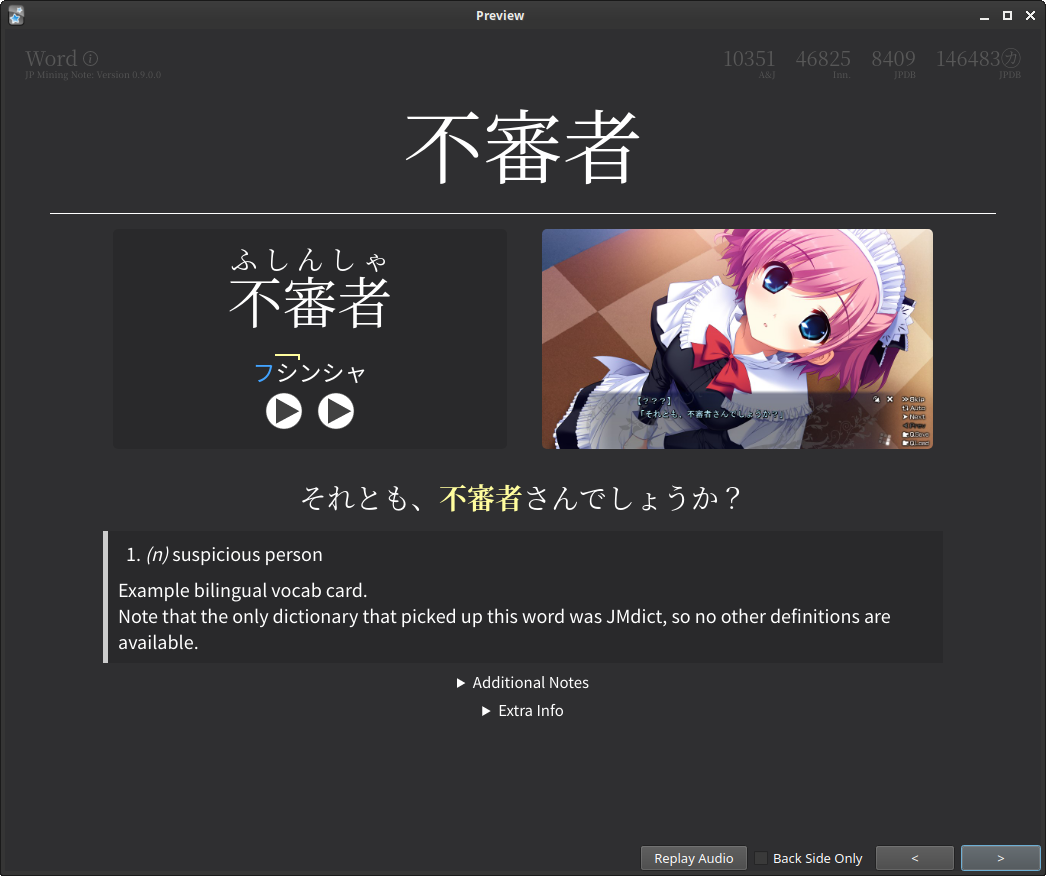
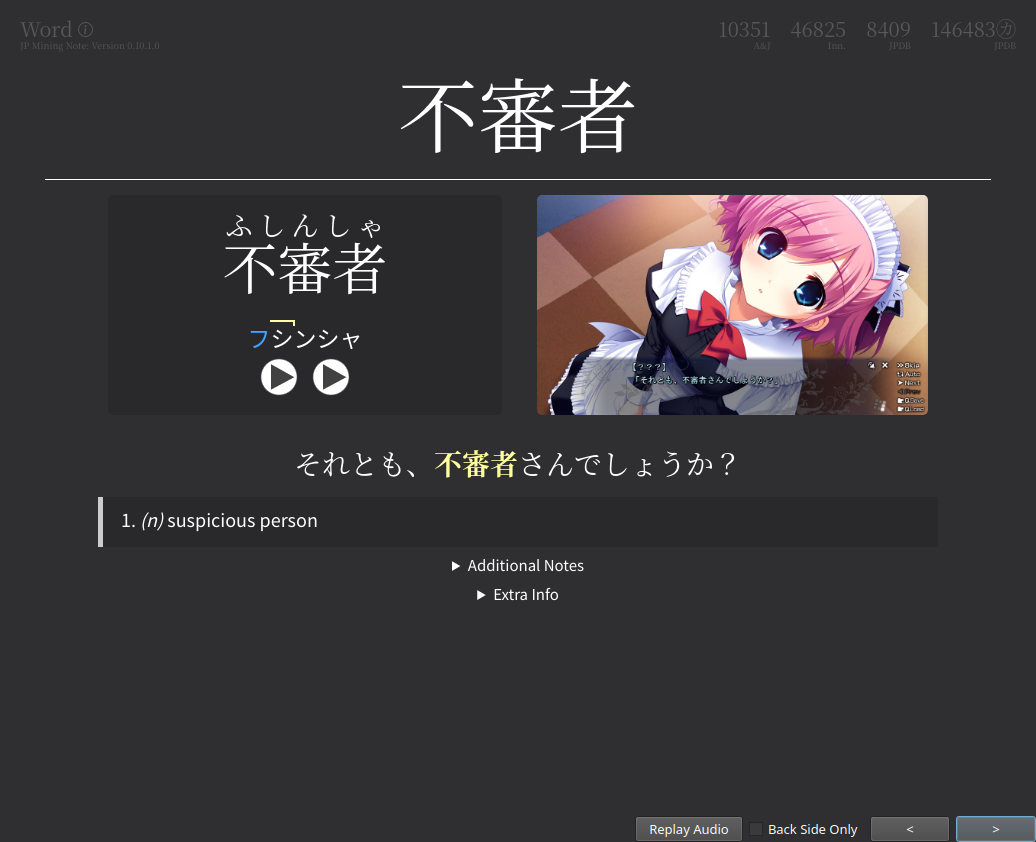
updated documentation to include light mode example, fixed jpresources.md, re-did info circle leech/warning/error colors on light mode

diff --git a/templates/scss/default/common.scss b/templates/scss/default/common.scss
@@ -39,17 +39,18 @@
 
   --info-circle-hover-color: #5f5f5f;
 
+  /* slightly different shade of blue */
   --info-circle-leech-color: #3983ff;
   --info-circle-leech-hover-color: #609cff;
-  --info-circle-leech-text-color: var(--info-circle-leech-hover-color);
+  --info-circle-leech-text-color: var(--info-circle-leech-color);
 
   --info-circle-warning-color: #ff8700;
-  --info-circle-warning-hover-color: #f2a753;
-  --info-circle-warning-text-color: #f9c24e;
+  --info-circle-warning-hover-color: #ffb341;
+  --info-circle-warning-text-color: var(--info-circle-warning-color);
 
-  --info-circle-error-color: #ff0200;
-  --info-circle-error-hover-color: #ff4d4c;
-  --info-circle-error-text-color: #fe7776;
+  --info-circle-error-color: #f05c59;
+  --info-circle-error-hover-color: #ff8381;
+  --info-circle-error-text-color: var(--info-circle-error-color);
 
   --pa-indicator-sentence-color: #4cd200;
   --pa-indicator-word-color: var(--accent);
@@ -86,6 +87,7 @@
 
   --info-circle-hover-color: #bdbdbd;
 
+  /* slightly different shade of yellow */
   --info-circle-leech-color: #ead623;
   --info-circle-leech-hover-color: var(--accent);
   --info-circle-leech-text-color: var(--info-circle-leech-hover-color);

diff --git a/docs/docs/setup.md b/docs/docs/setup.md
@@ -95,8 +95,13 @@ There are two ways of installing the card:
 You should see a deck `JPMN-Examples` in your collection.
 View one of the cards and make sure the card looks similar to the one below:
 
-{{ img("Example card", "assets/eg_fushinnsha.png") }}
-<!-- TODO update this picture on first public release -->
+=== "Dark Theme"
+
+    {{ img("Example card", "assets/eg_fushinnsha.png") }}
+
+=== "Light Theme"
+
+    {{ img("Example light theme card", "assets/eg_fushinnsha_light.png") }}
 
 Please check the following in particular:
 

diff --git a/docs/docs/jpresources.md b/docs/docs/jpresources.md
@@ -450,6 +450,8 @@ For further customization on how the first dictionary is selected
 (say, for automatic bilingual / monolingual separation),
 see the handlebars code used by JPMN [here](setup.md#yomichan-templates).
 
+
+{% raw %}
 ```handlebars
 {{~#*inline "glossary-first"~}}
 
@@ -477,6 +479,7 @@ see the handlebars code used by JPMN [here](setup.md#yomichan-templates).
 
 {{~/inline~}}
 ```
+{% endraw %}
 
 
 
